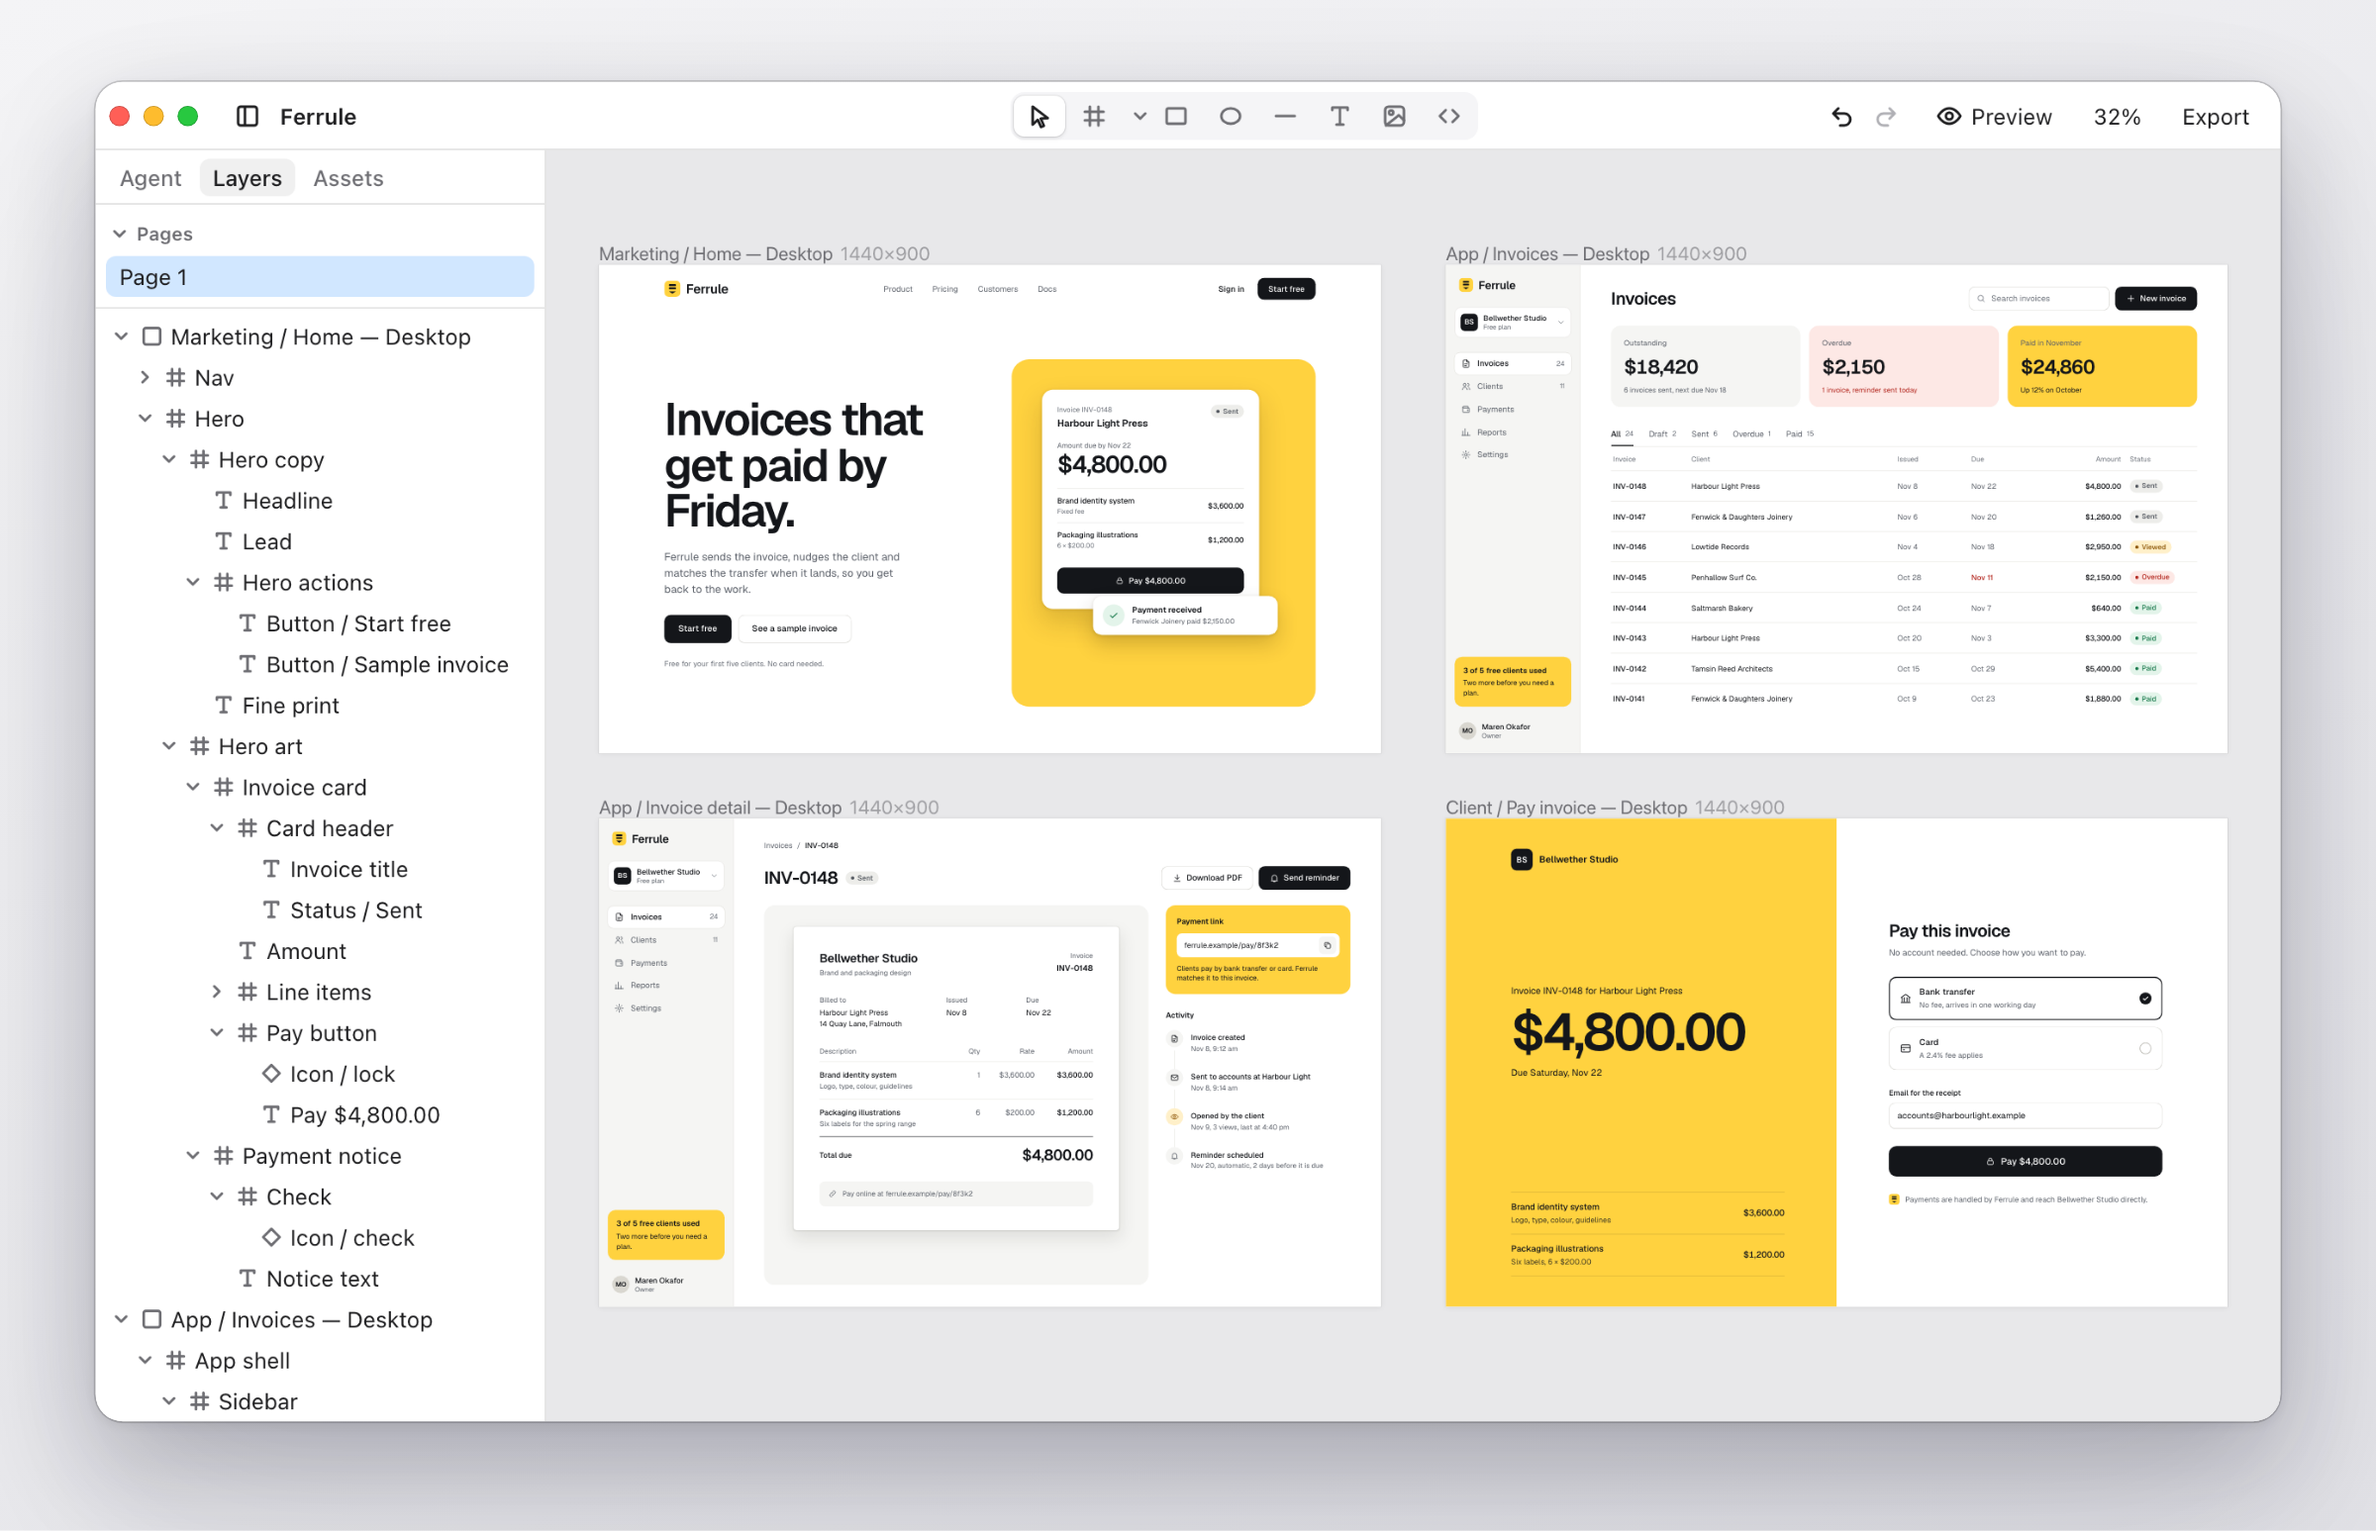
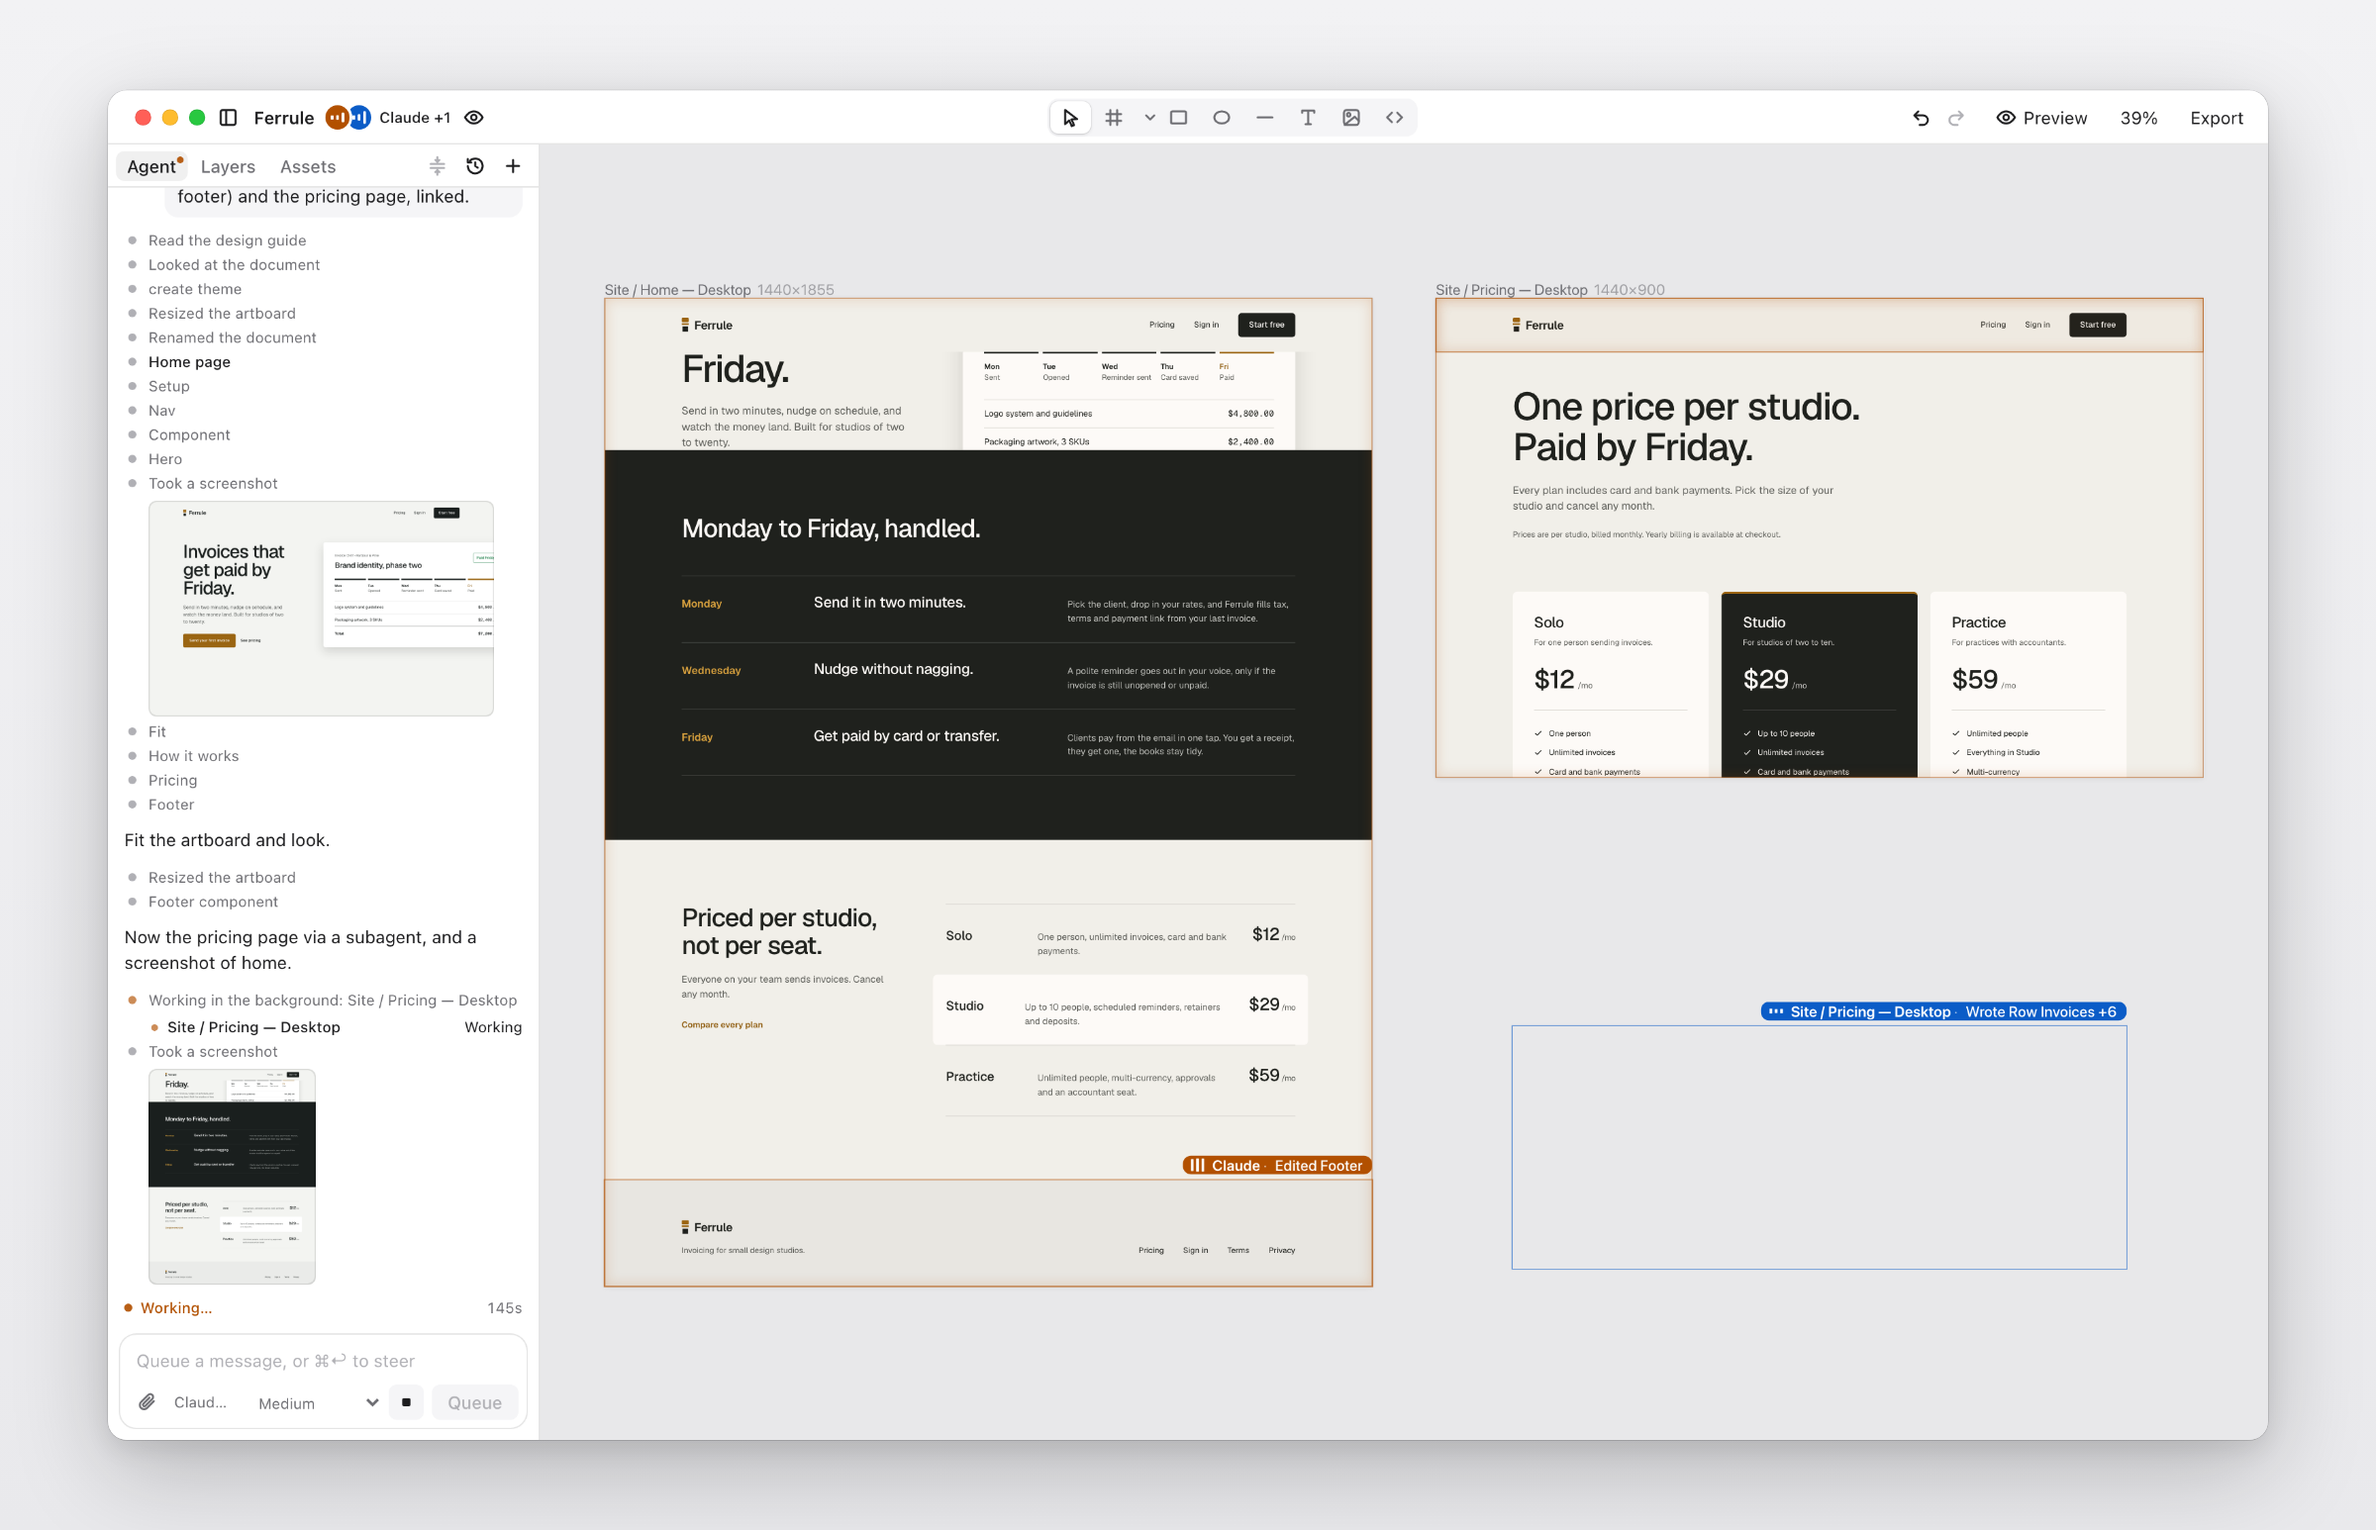
README: lead with the agent, new hero image; jsonFields split test timeout

Changed region(s): [[0.0312, 0.031, 0.9688, 0.9625], [0.1875, 0.652, 0.2188, 0.6831]]

diff --git a/editor/src/agent/jsonFields.test.ts b/editor/src/agent/jsonFields.test.ts
@@ -125,6 +125,7 @@ describe('JsonFieldStream', () => {
           for (let k = 0; k < seen.length; k += Math.ceil(seen.length / 150)) expect(w.args.html.startsWith(seen[k]!['html'] ?? '')).toBe(true);
         }
       }
-    });
+      // Exhaustive by design (every split point, many seeds): a few seconds on a busy shared CI runner, past Vitest's 5 s default.
+    }, 30_000);
   });
 });

diff --git a/README.md b/README.md
@@ -1,6 +1,6 @@
 # Ocelot
 
-A macOS design tool where every layer is real HTML and CSS. A local MCP server lets AI agents read and edit the canvas while you work on the same document.
+An AI-native design tool for macOS. Describe what you want and the built-in agent designs it on the canvas while you watch, with helpers building several screens at once, and you keep editing alongside it. Every layer is real HTML and CSS, and your own agents get the same tools through a local MCP server.
 
 <p align="center">
   <a href="https://github.com/caracal-sh/ocelot/releases/latest/download/Ocelot.dmg"><strong>Download Ocelot for Mac</strong></a>
@@ -8,11 +8,11 @@ A macOS design tool where every layer is real HTML and CSS. A local MCP server l
   <a href="https://github.com/caracal-sh/ocelot/releases">All releases</a>
 </p>
 
-![Ocelot: a design on the canvas, with layers and artboards](.github/ocelot.png)
+![Ocelot: the agent and a helper building a two-page site, their steps in the sidebar and their work marked on the canvas](.github/ocelot.png)
 
+- **Agents first**: a built-in agent sidebar that designs whole sites and apps, starts helpers for screens in parallel, checks its own work in screenshots and hands it over for click-through in Preview. A local MCP server gives any agent tools that reach every property a person can edit. Every edit shows up live on the canvas, and one undo reverts an agent's whole batch.
 - **Canvas**: artboards are real web pages (same-origin iframes rendered by WebKit) on an infinite zoom and pan canvas.
-- **Editing**: select, drag, resize, edit text inline, layers, inspector, design tokens, keyboard shortcuts.
-- **Agents**: a built-in agent sidebar and a local MCP server with tools that reach every property a person can edit. Every edit shows up live on the canvas, and one undo reverts an agent's whole batch.
+- **Editing**: select, drag, resize, edit text inline, layers, inspector, design tokens, components, keyboard shortcuts.
 - **Export**: PNG, JPG, PDF, decks and video, standalone HTML, and React + Tailwind that renders like the canvas.
 - **Local first**: documents are folders on your disk. Nothing is sent anywhere except what you ask for (the agent's model provider, image generation, update checks).
 
